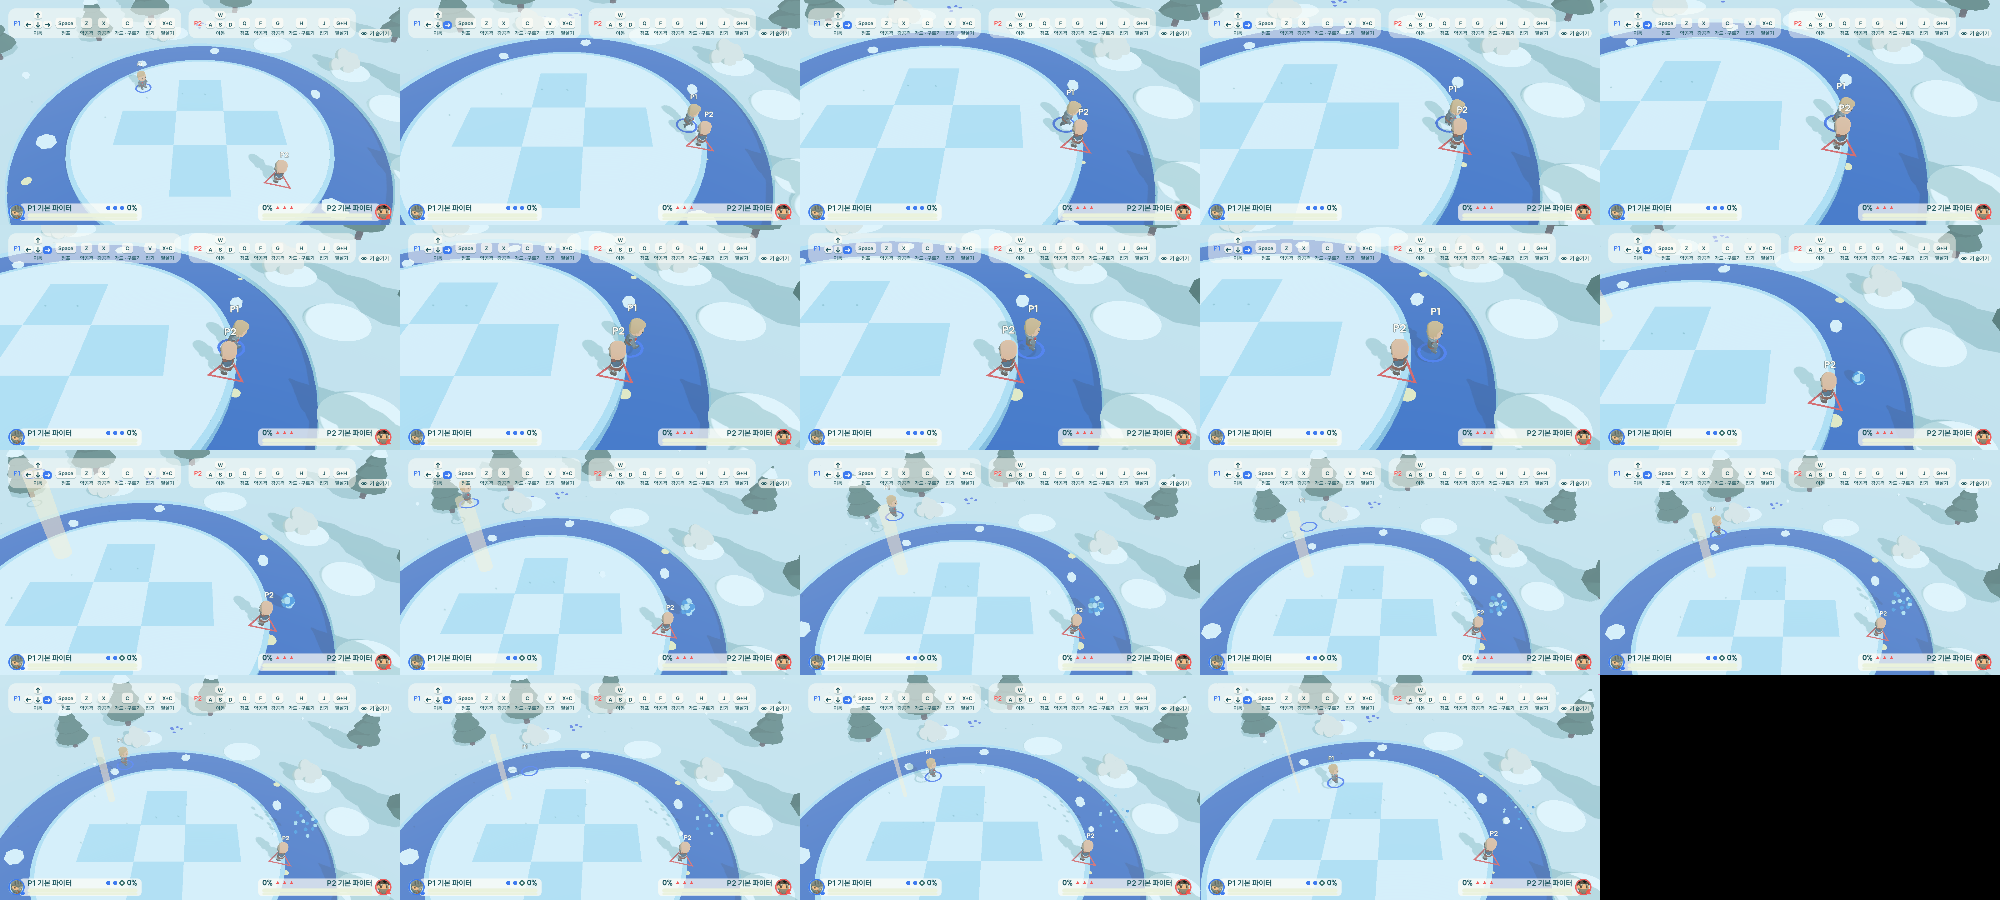
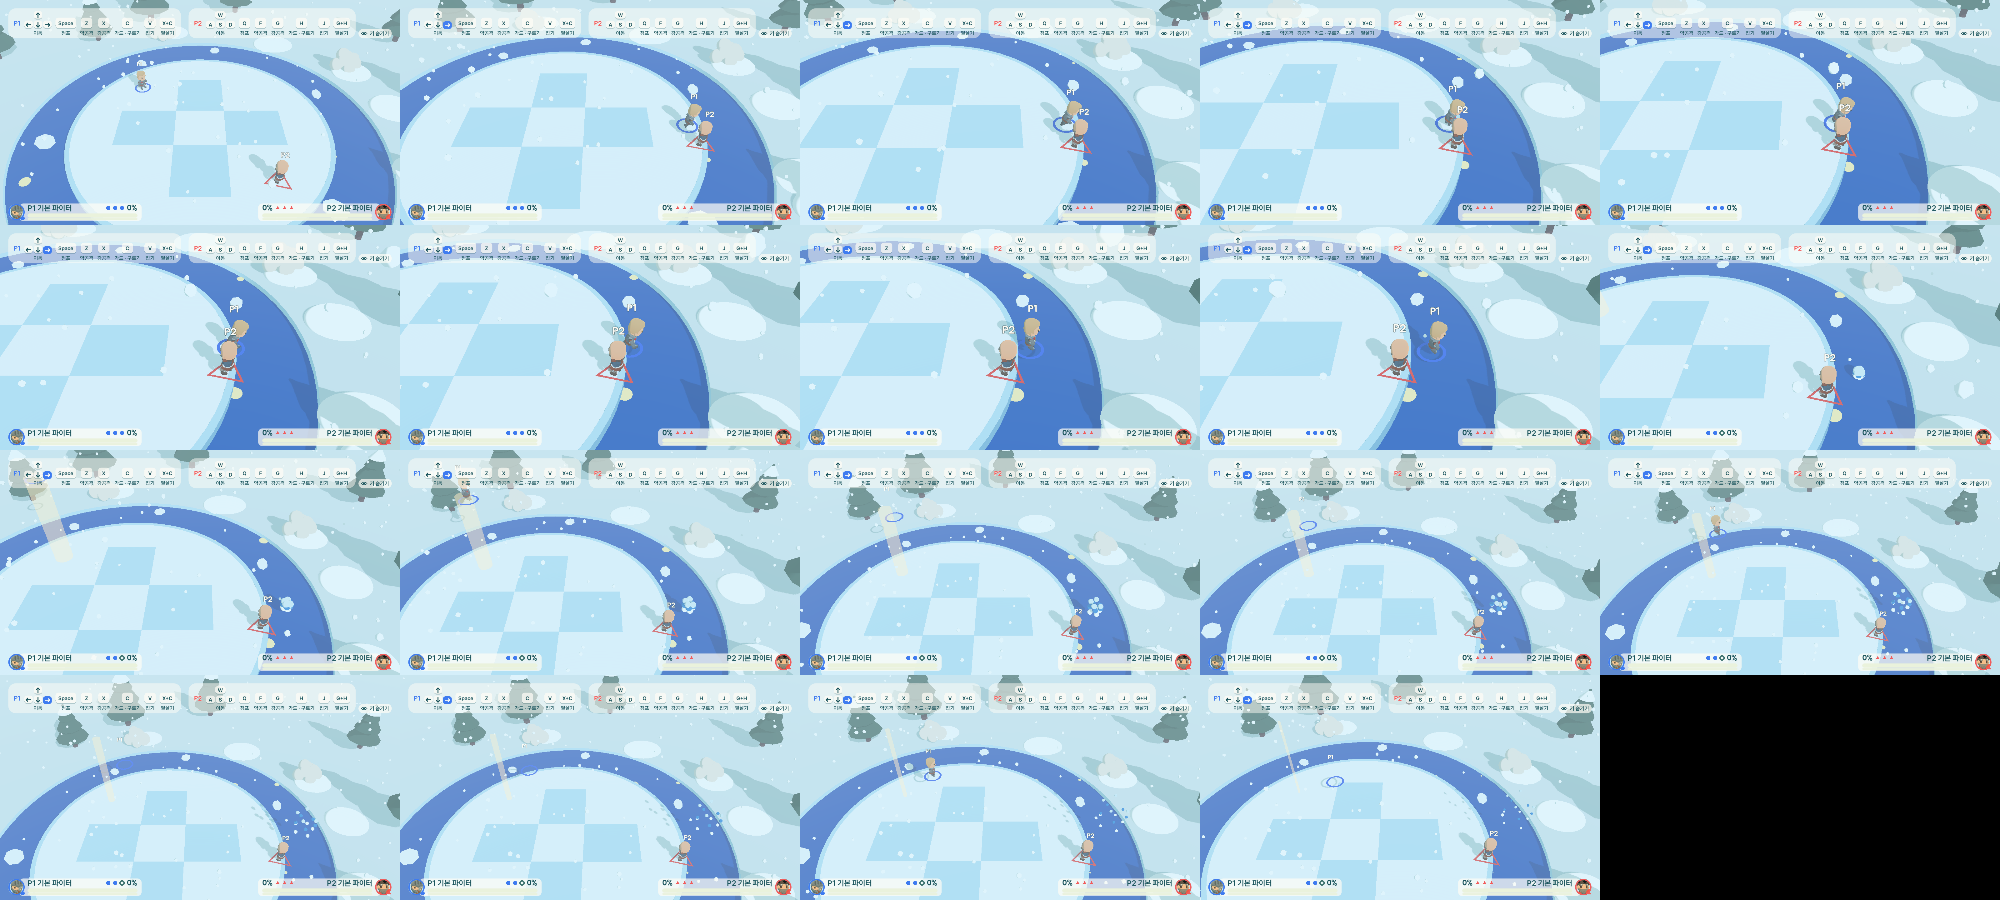
docs: arena-ringout evidence and status

diff --git a/dev/active/arena-ringout/arena-ringout-context.md b/dev/active/arena-ringout/arena-ringout-context.md
@@ -14,3 +14,7 @@ Last Updated: 2026-10-07
   pinned down (chaotic bot matches); human matches only lose the 0.4 s of doomed fall.
 - FallPose writes CharacterModel.rotation only (HitReaction owns its position/scale; polish-pass tumble
   turns the glb root inside it). The classic decor lake (-0.95) is held at -1 for ~7 frames before the splash.
+- Frozen pond: ArenaShape.Kind.RING added; ArenaData.slippery + src/sim/ground_grip.gd + src/config/ice_config.gd
+  (ice_ground_acceleration 14, ice_slide_friction 0.95). ArenaFloor.safe_point seam rule (_deep_in_union) also
+  changes log_bridge bot play (bot match ends 2437 vs 2747) — deliberate, fixes seam deadlock.
+- Open: analysis/src/brawl_analysis/features.py ARENAS lacks frozen_pond (one-hot dims would change).

diff --git a/dev/active/arena-ringout/arena-ringout-tasks.md b/dev/active/arena-ringout/arena-ringout-tasks.md
@@ -5,5 +5,5 @@
 - [x] A3 after capture (evidence/ringout-classic-*.png)
 - [x] test.sh 1562/1562, check-all OK
 - [x] code review (APPROVE) -> fixes -> commit
-- [ ] B frozen pond (subagent, worktree ../frozen-pond, branch feat/frozen-pond) -> merge here
+- [x] B frozen pond (feat/frozen-pond 981ea87) merged; hashes re-recorded; 1588/1588 + check-all OK
 - [ ] ask user: merge to main / deploy
